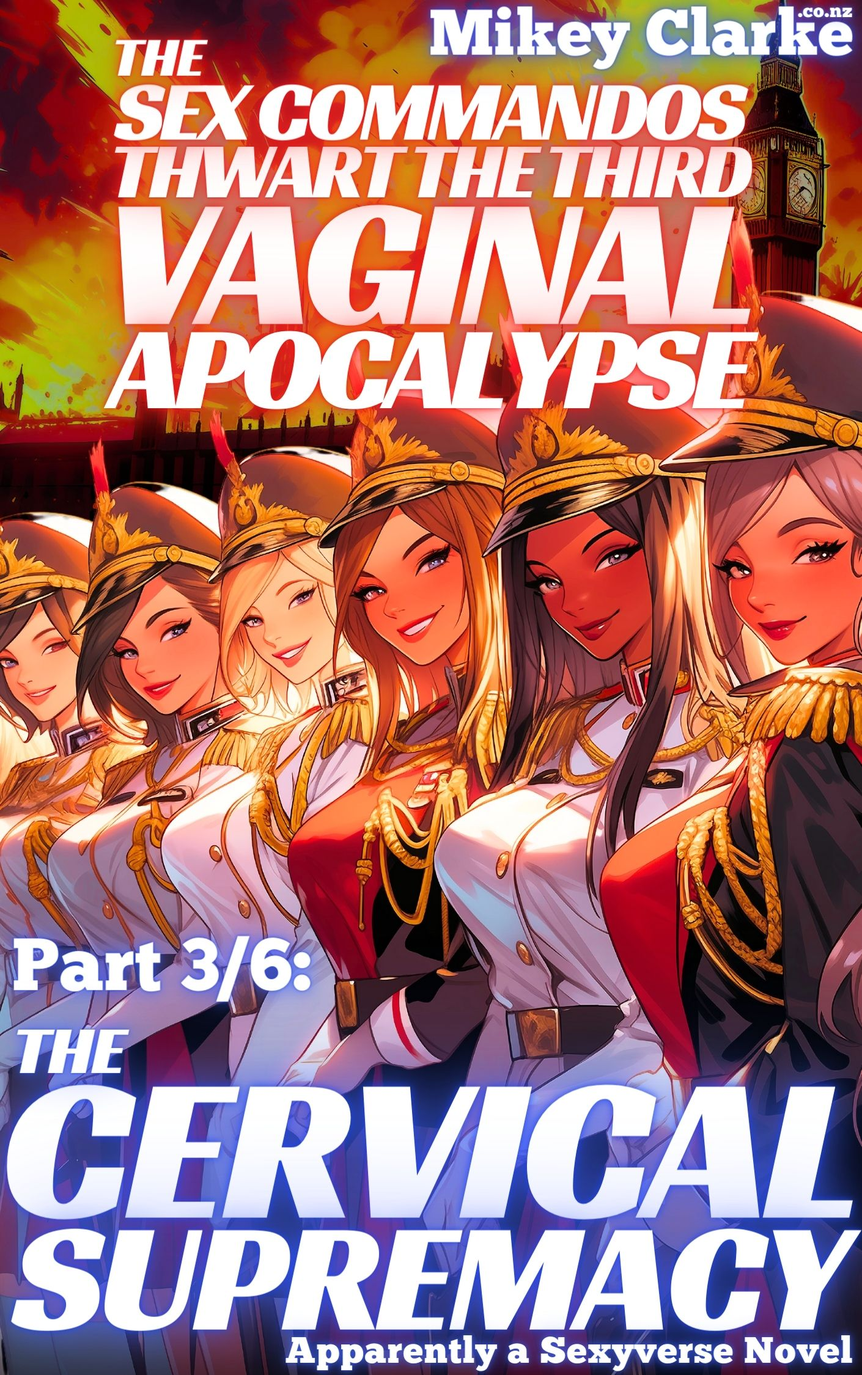
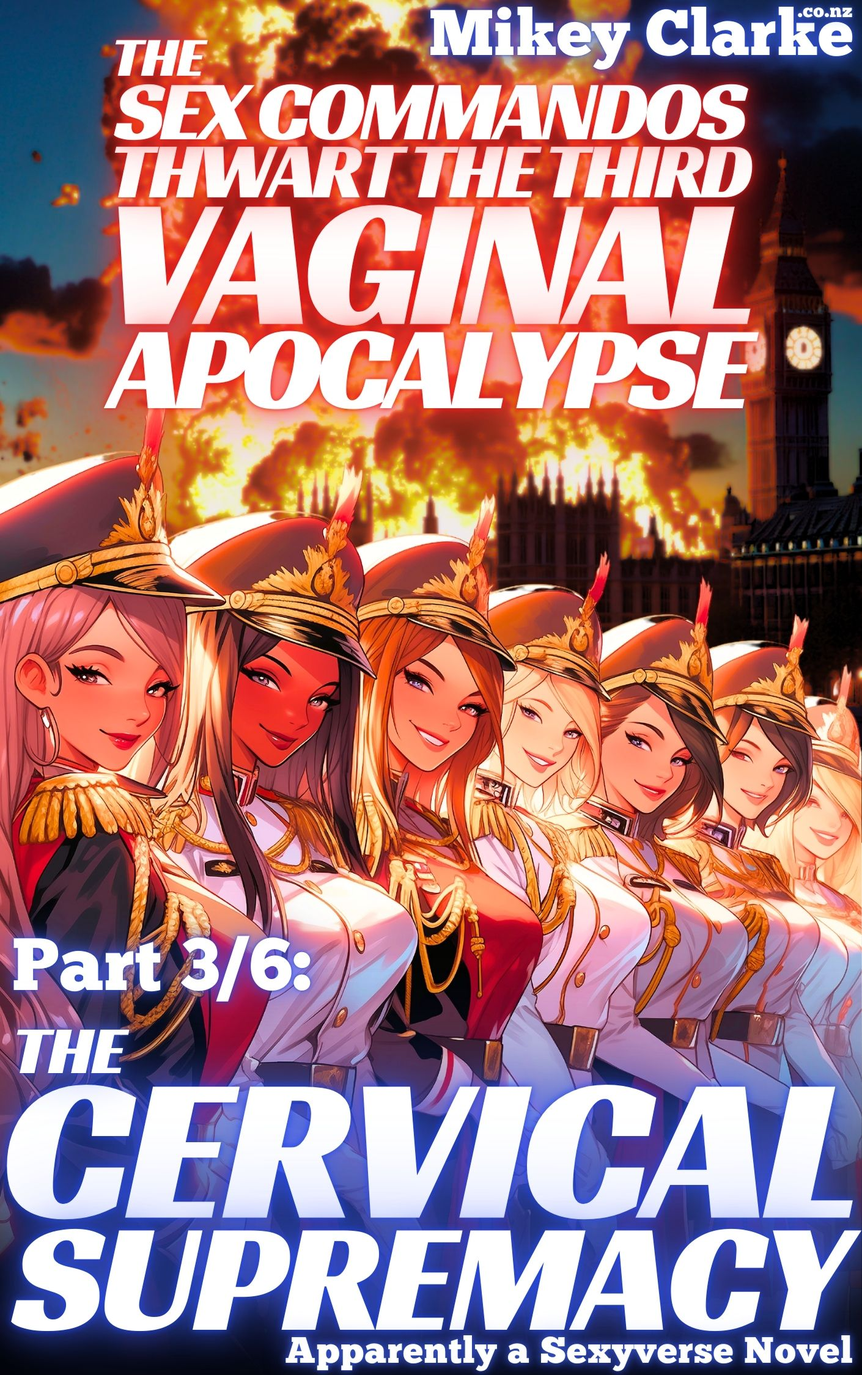
A gazillion little copy edits, style polishes, img

diff --git a/app/assets/stylesheets/application.tailwind.css b/app/assets/stylesheets/application.tailwind.css
@@ -41,7 +41,7 @@
 }
 
 .title-bg .transparency .part {
-  @apply text-2xl font-['Great_Vibes'];
+  @apply mt-1 text-2xl font-['Great_Vibes'];
 }
 
 .title-bg .transparency .sub {
@@ -49,7 +49,7 @@
 }
 
 .book {
-  @apply mx-8 lg:mx-12 flex flex-col md:flex-row gap-12;
+  @apply m-4 lg:mx-12 flex flex-col md:flex-row gap-12;
 }
 
 .book .image {
@@ -61,20 +61,24 @@
 }
 
 .book .blurb {
-  @apply basis-full md:basis-1/2;
+  @apply flex flex-col justify-center basis-full md:basis-1/2;
 }
 
 .book .blurb p { 
-  @apply text-gray-700 leading-tight text-justify mb-4;
+  @apply text-gray-700 leading-normal text-justify mb-4;
 }
 
 /* Custom styling for each book-purchase page's overall purchase icons */
+.purchase {
+  @apply mb-12;
+}
+
 .purchase h1 {
   @apply font-medium text-3xl sm:text-5xl mt-6 text-center text-gray-700 uppercase font-['Racing_Sans_One'];
 }
 
 .purchase .purchase-links {
-  @apply grid grid-cols-6 sm:grid-cols-12 md:grid-cols-6 lg:grid-cols-8 gap-2 sm:gap-3 md:gap-5 my-4 mx-4 sm:mx-16;
+  @apply grid grid-cols-6 sm:grid-cols-12 md:grid-cols-6 lg:grid-cols-8 gap-4 sm:gap-6 md:gap-8 my-4 mx-4 sm:mx-16;
 }
 
 .purchase .purchase-links .non-amazon {
@@ -92,4 +96,27 @@
 
 .amazon-mk span {
   @apply text-base sm:text-2xl -ml-2 sm:ml-[-9px] font-['Amazon_Ember'] text-[#0d2636];
+}
+
+.footer {
+  @apply w-full h-16 bg-cyan-900 text-cyan-300 text-xs font-bold flex justify-between items-center;
+}
+
+.footer span {
+}
+
+.footer span.copyright {
+  @apply ml-8 w-full md:w-1/3 lg:w-auto;
+}
+
+.footer span.links {
+  @apply mr-8 hidden md:inline;
+}
+
+.footer a {
+  @apply ml-8 transition duration-300;
+}
+
+.footer a:hover {
+  @apply text-cyan-100;
 }

diff --git a/app/controllers/application_controller.rb b/app/controllers/application_controller.rb
@@ -14,6 +14,8 @@ class ApplicationController < ActionController::Base
   ]
 
   def apocalypse
+    all_bgs = ['1-phwoar', '2-superb', '3-supremacy', '4-praetorian']
+    @random_cover_image = "#{all_bgs.sample}-web-bg-only.jpg"
   end
 
   def phwoar
